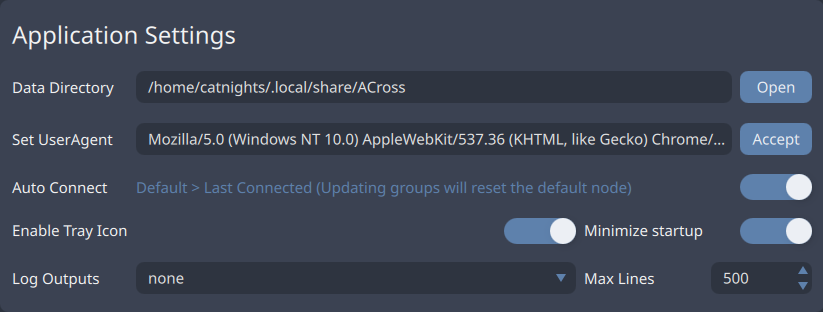
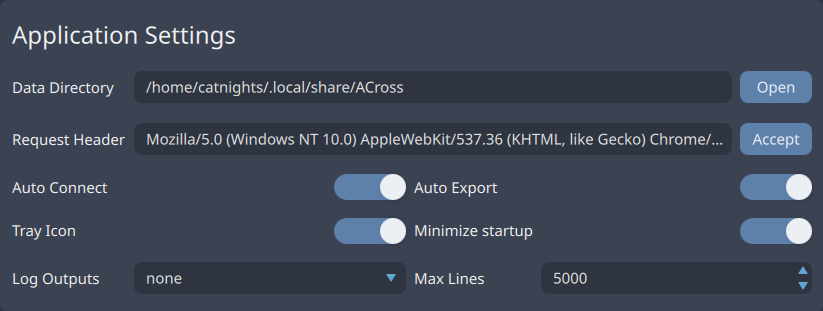
update: auto export

diff --git a/UIAndUsage.md b/UIAndUsage.md
@@ -165,6 +165,8 @@ Currently, we do not provide any form of a global or transparent proxy, which me
 
 - `Auto Connect` will automatically start the proxy when the app starts, if you don't have any available nodes, please don't open this option yet.
 
+- `Auto Export` will automatically export the current node configuration to data directory when you double-click the node item card.
+
 - `Tray Icon` requires the system tray. or `GNOME` users, we recommend installing an [appindicator extensions](https://github.com/ubuntu/gnome-shell-extension-appindicator) and switch on `gnome tweaks`.
 
 - `Minimize Startup` allows you to start the application in background, usually enabled along with `Auto Connect` to make for quiet proxy. If you don't have the system tray, click the application icon again to show the main window.

diff --git a/zh_cn/UIAndUsage.md b/zh_cn/UIAndUsage.md
@@ -165,6 +165,8 @@
 
 - `自动连接` 会自动在应用程序运行时启动代理，如果您没有任何可用节点，请先不要打开此选项。
 
+- `自动导出` 双击节点卡片的时候自动将当前配置导出到数据文件夹。
+
 - `启用托盘图标` 需要系统托盘。对于 `GNOME` 用户，我们建议安装 [appindicator 扩展](https://github.com/ubuntu/gnome-shell-extension-appindicator) 并在 `gnome tweaks` 中启用。
 
 - `最小化启动` 允许您在后台启动应用程序，通常与 `自动连接` 一起使用以实现静默代理。如果您没有系统托盘，可以再次单击应用程序图标以显示主窗口。
